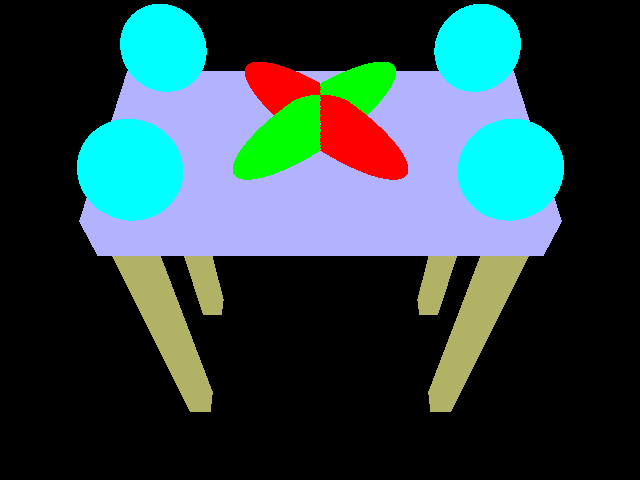
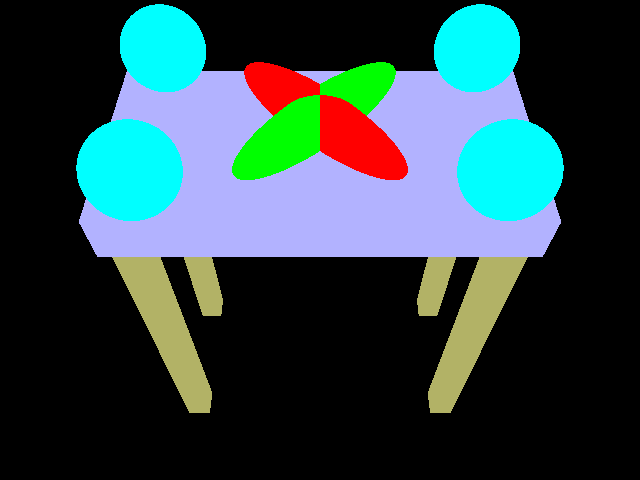
fixed shooting ray through middle of pixel

diff --git a/RayTracer.cpp b/RayTracer.cpp
@@ -47,8 +47,11 @@ void RayTracer::trace(Ray r, int lvl, Color& outputColor){
   if(intersect.isHit()){
 //cout << "magic4" << endl;
     vec3 norm = intersect.getNormal().getDir();
-    vec3 reflectedDir = 2*glm::dot(norm, glm::normalize(r.getDir())) * norm;
-    reflectedDir = glm::normalize(r.getDir() - reflectedDir);
+    //vec3 reflectedDir = 2*glm::dot(norm, glm::normalize(r.getDir())) * norm;
+    //reflectedDir = glm::normalize(r.getDir() - reflectedDir);
+
+    vec3 reflectedDir = glm::reflect(glm::normalize(r.getDir()), glm::normalize(norm));
+
 //cout << "magic5" << endl;
 
     Shape *currShape = intersect.getShape();
@@ -82,7 +85,7 @@ void RayTracer::trace(Ray r, int lvl, Color& outputColor){
     result += currShape->getEmission().getColors() + currShape->getAmbient().getColors();
 
     Ray reflect = Ray();
-    vec3 offsetInters = intersect.getPosition().getPoint() + 0.001f * reflectedDir;
+    vec3 offsetInters = intersect.getPosition().getPoint() + 0.0001f * reflectedDir;
     reflect.setPoint(Point(offsetInters));
     reflect.setDir(Direction(reflectedDir));
     Color reflectedCol = Color(0, 0, 0);

diff --git a/Camera.cpp b/Camera.cpp
@@ -10,8 +10,8 @@ void Camera::generateRay(Sample &sample, Ray* ray)
   vec3 u = glm::normalize(glm::cross(_up, w));
   vec3 v = glm::cross(w, u);
 
-  float j = (float) sample.x();
-  float i = ((float) _height) - ((float) sample.y());
+  float j = (float) sample.x() + 0.5;
+  float i = ((float) _height) - ((float) sample.y()) - 0.5;
 
   float halfwidth = ((float) _width) / 2.0;
   float halfheight = ((float) _height) / 2.0;
